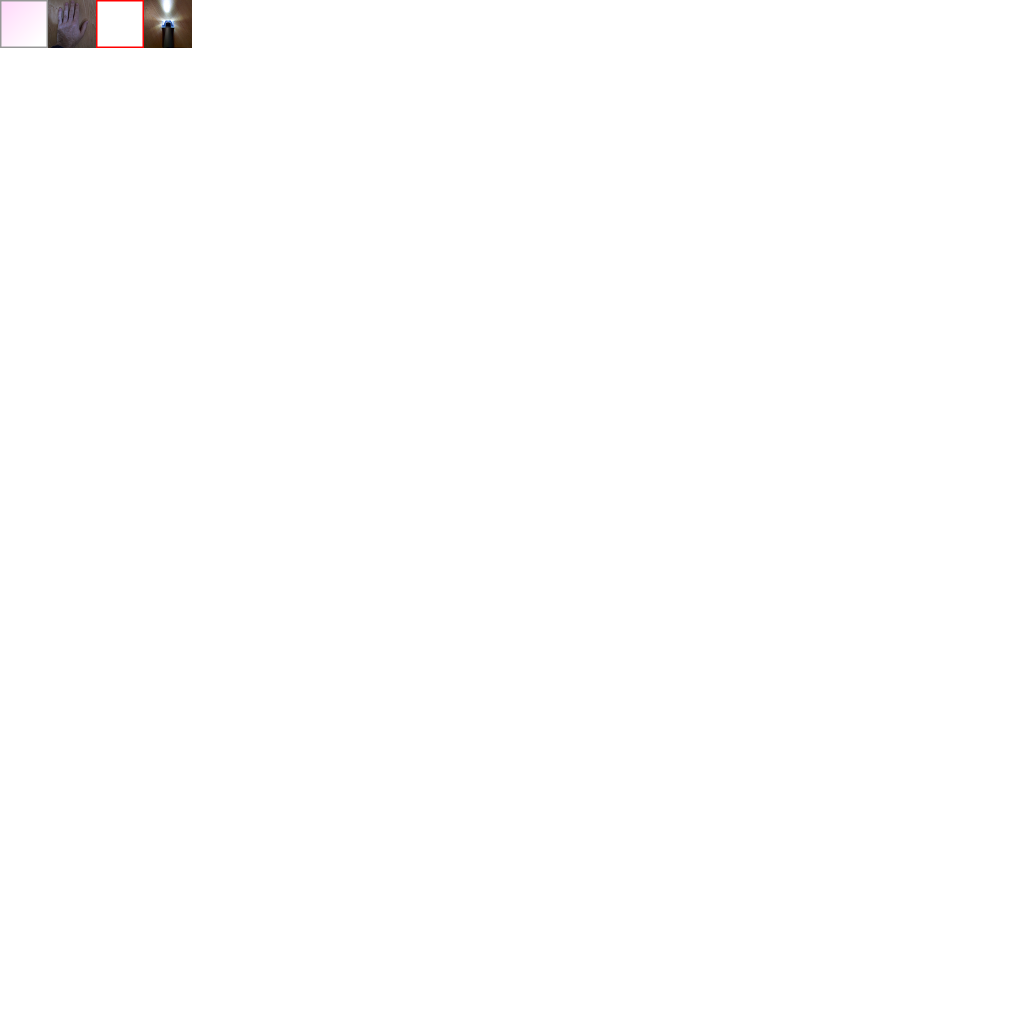
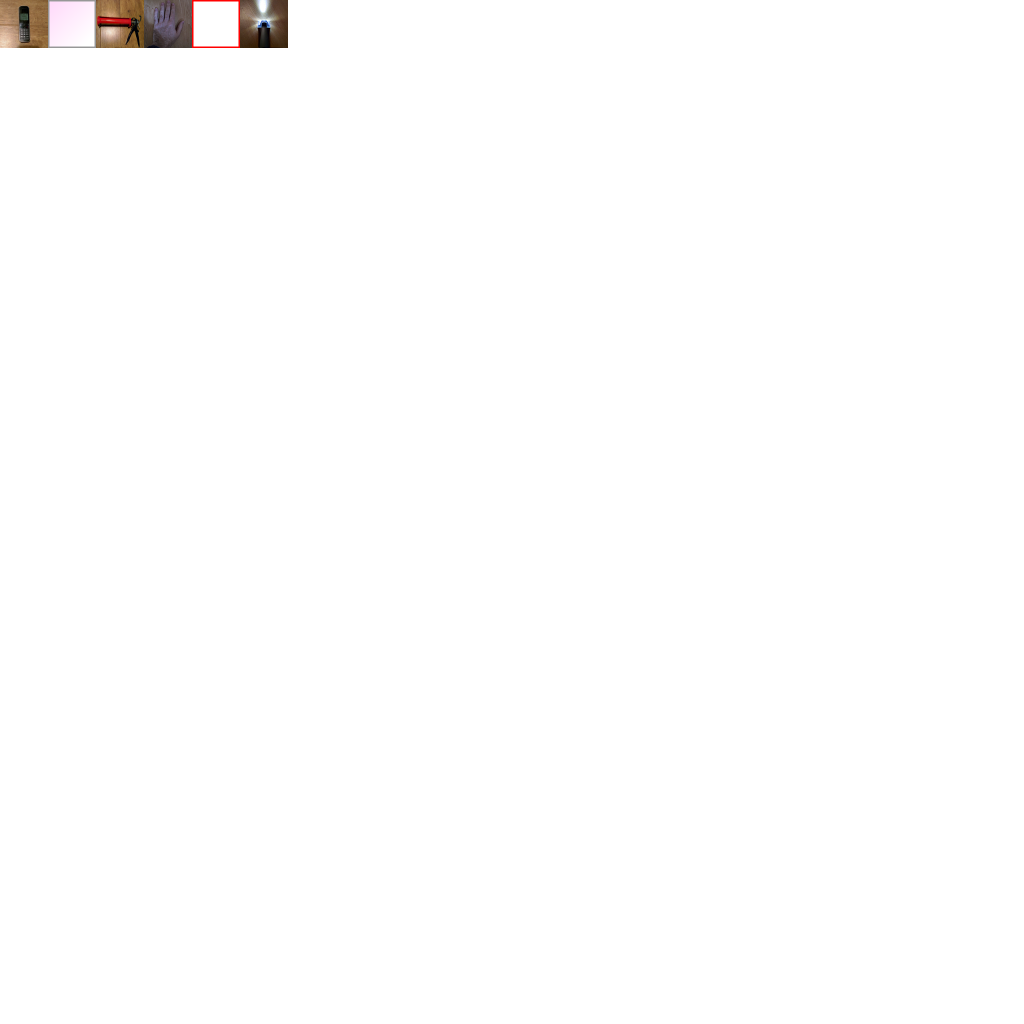
Adding flare and comms

Changed region(s): [[0.0, 0.0, 0.2812, 0.0625]]

diff --git a/actors.py b/actors.py
@@ -484,6 +484,7 @@ class Player(Actor):
         self.mouse_pos = Point(0,0)
         super(Player,self).__init__(map,pos)
         self.light = ActorLight(self)
+        self.tilium = False
         self.torch = Torch(self,Point(-(self.width/globals.tile_dimensions.x)*0.6,0))
         self.info_box = ui.Box(parent = globals.screen_root,
                                pos = Point(0,0),
@@ -517,12 +518,12 @@ class Player(Actor):
                                                                     drawing.constants.colours.red),
                                                      border_colour = drawing.constants.colours.white)
         self.info_box.torch_data.Disable()
-        self.inv_quads = [drawing.Quad(globals.screen_texture_buffer,tc = globals.ui_atlas.TextureUiCoords('empty.png')) for i in xrange(3)]
-        self.sel_quads = [drawing.Quad(globals.screen_texture_buffer,tc = globals.ui_atlas.TextureUiCoords('selected.png')) for i in xrange(3)]
+        self.inv_quads = [drawing.Quad(globals.screen_texture_buffer,tc = globals.ui_atlas.TextureUiCoords('empty.png')) for i in xrange(4)]
+        self.sel_quads = [drawing.Quad(globals.screen_texture_buffer,tc = globals.ui_atlas.TextureUiCoords('selected.png')) for i in xrange(4)]
         box_size = 48
         sep_x = int((self.info_box.absolute.size.x*0.2 - box_size*3)/4)
         sep_y = int((self.info_box.absolute.size.y - box_size)/2)
-        for i in xrange(3):
+        for i in xrange(4):
             bl = self.info_box.absolute.bottom_left + Point(self.info_box.absolute.size.x*0.03,0) + Point(((i+1)*sep_x)+(i*box_size),sep_y)
             tr = bl + Point(box_size,box_size)
             self.inv_quads[i].SetVertices(bl,tr,9000)
@@ -667,3 +668,9 @@ class TorchItem(Item):
 
     def deactivate(self,pos):
         self.player.torch.turn_off()
+
+class FlareItem(Item):
+    icon = 'flare.png'
+
+class CommsItem(Item):
+    icon = 'comms.png'

diff --git a/game_view.py b/game_view.py
@@ -318,15 +318,38 @@ class TorchCrate(Crate):
 
 class FlareCrate(Crate):
     duration = 1000
+    def Interacted(self):
+        super(FlareCrate, self).Interacted()
+        print 'jim',self.interact_count,self.player
+        if self.interact_count == 1 and self.player:
+            self.player.AddItem(actors.FlareItem(self.player))
 
 class CommsCrate(Crate):
     duration = 10000
+    def Interacted(self):
+        super(CommsCrate, self).Interacted()
+        print 'jim',self.interact_count,self.player
+        if self.interact_count == 1 and self.player:
+            self.player.AddItem(actors.CommsItem(self.player))
 
 class BatteriesCrate(Crate):
     duration = 2000
+    def Interacted(self):
+        super(BatteriesCrate, self).Interacted()
+        print 'jim',self.interact_count,self.player
+        if self.interact_count == 1 and self.player:
+            self.player.torch.burn_rate = 0
+            self.player.torch.on_penalty = 0
+
 
 class TiliumCrate(Crate):
     duration = 10000
+    def Interacted(self):
+        super(TorchCrate, self).Interacted()
+        print 'jim',self.interact_count,self.player
+        if self.interact_count == 1 and self.player:
+            self.player.tilium = True
+
 
 crate_types = [BatteriesCrate, TorchCrate, CommsCrate, FlareCrate, TiliumCrate]
 
